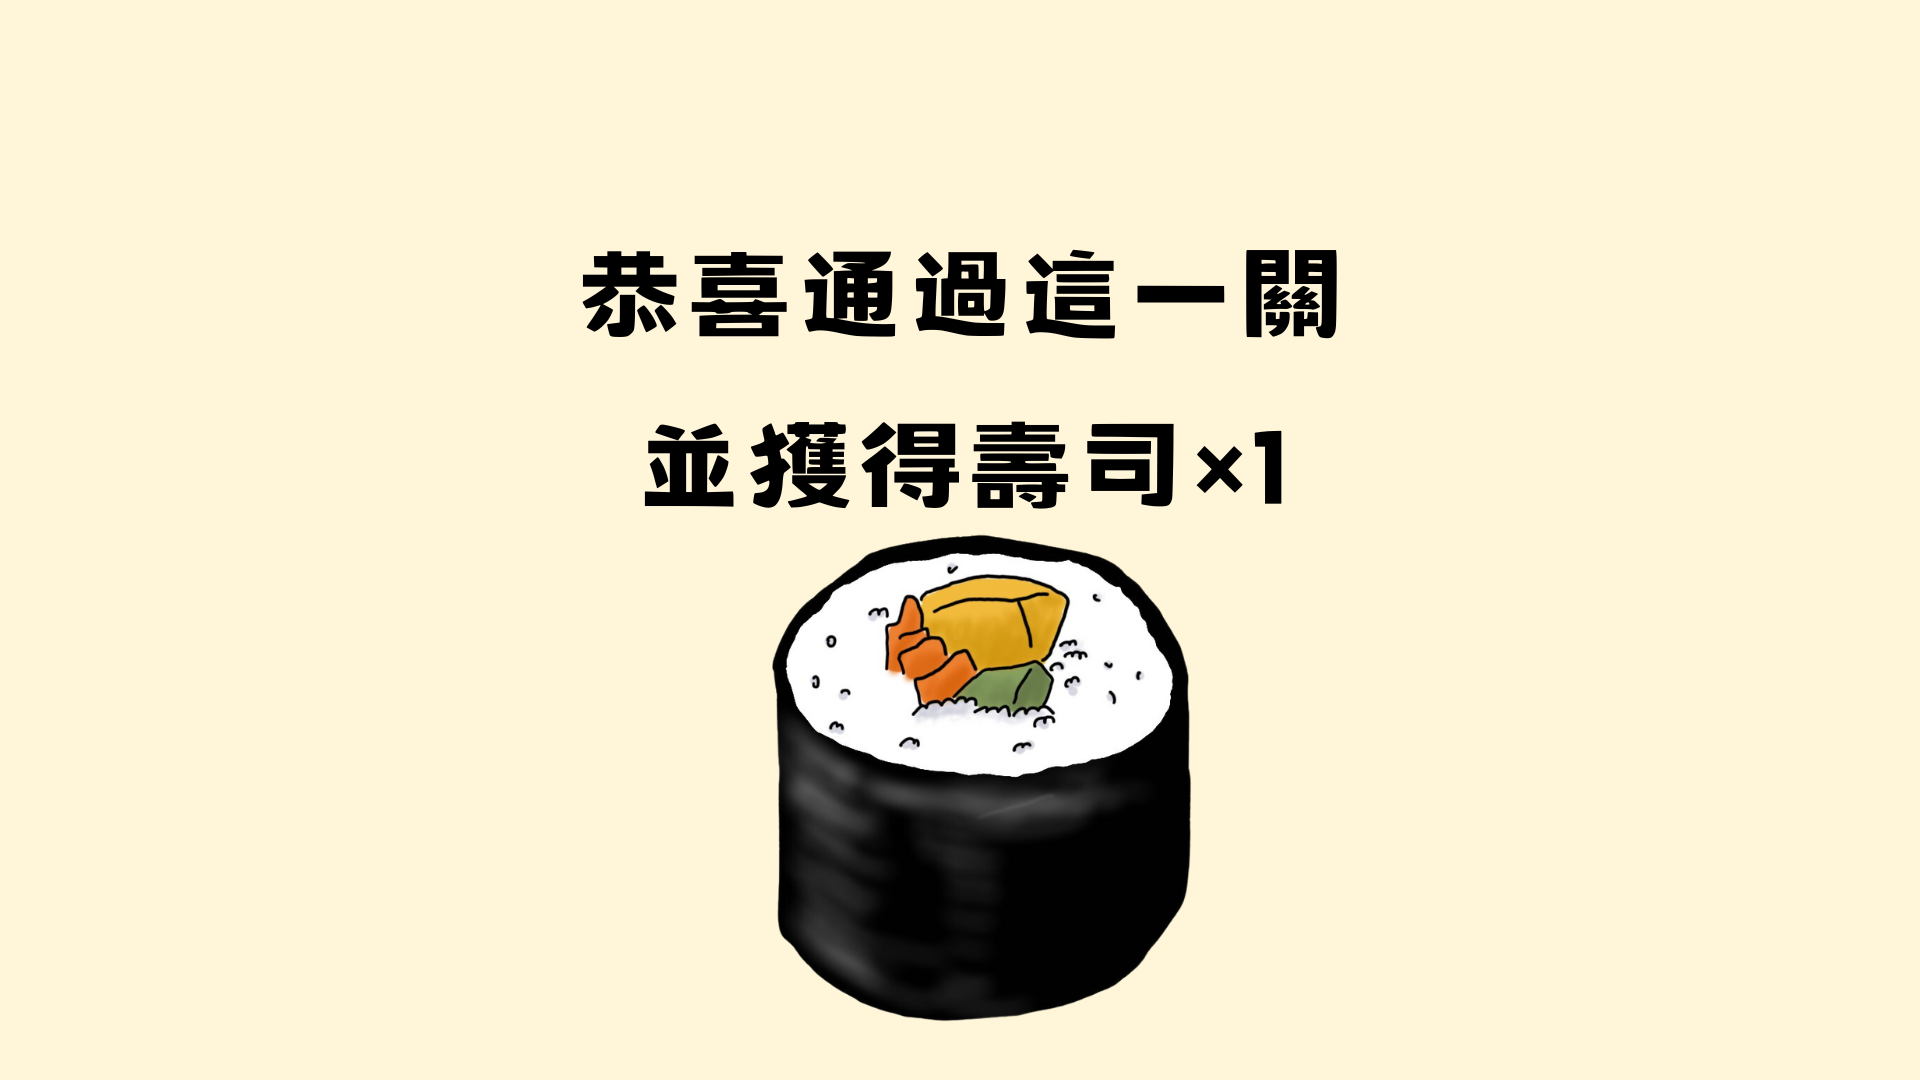
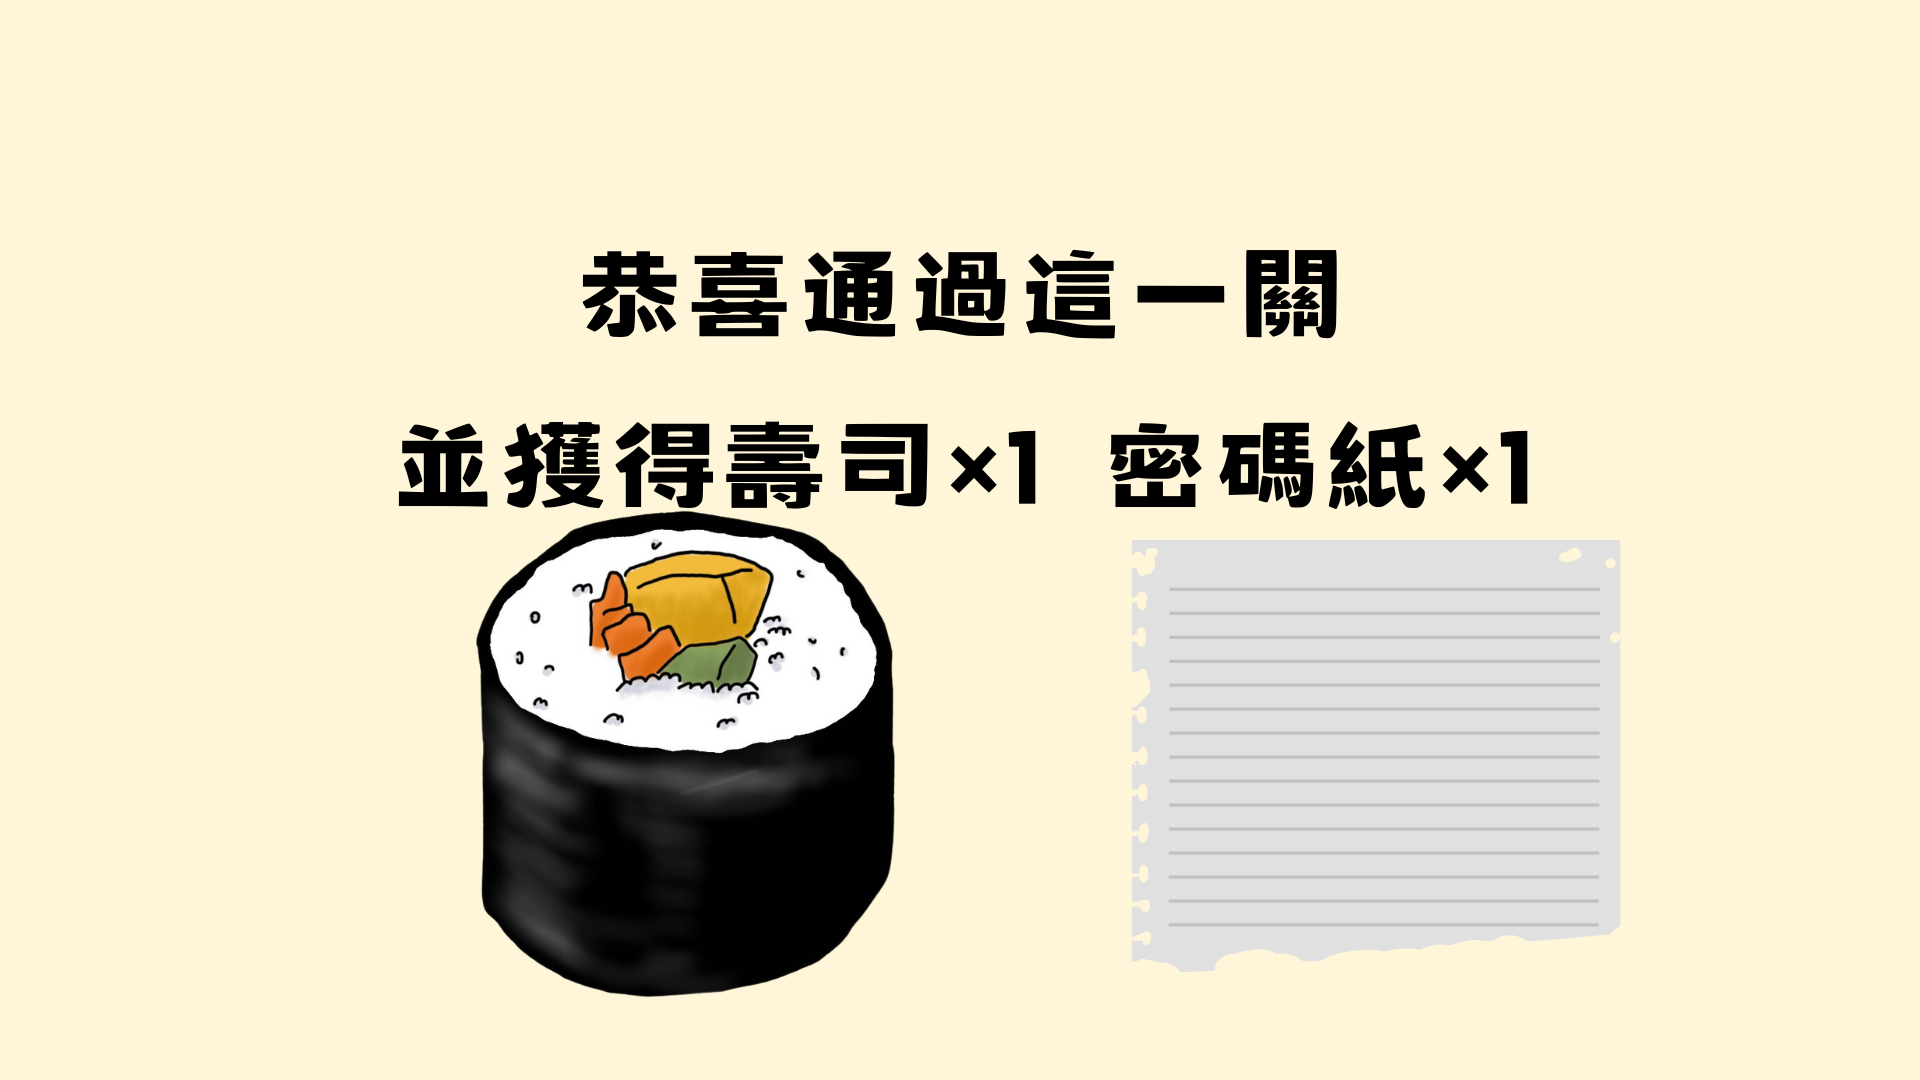
修改密碼紙位置 密碼關卡位置

Changed region(s): [[0.1875, 0.3667, 0.8438, 0.9472]]

diff --git a/assets/js/scene9.js b/assets/js/scene9.js
@@ -15,11 +15,11 @@ class Scene9 extends Phaser.Scene {
 
     // 創建顯示輸入密碼的文本
     this.inputText = this.add
-      .text(400, 100, "", { fontSize: "48px", color: "#000" })
+      .text(750, 900, "", { fontSize: "48px", color: "#000" })
       .setOrigin(0.5);
 
     this.messageText = this.add
-      .text(400, 200, "", { fontSize: "24px", color: "#000" })
+      .text(750, 1000, "", { fontSize: "24px", color: "#000" })
       .setOrigin(0.5);
 
     // 初始化用戶輸入的密碼

diff --git a/assets/js/start.js b/assets/js/start.js
@@ -21,8 +21,8 @@ class Start extends Phaser.Scene {
   }
 
   startGame() {
-    this.scene.start("Instructions");
-    //this.scene.start("Scene6");
+    //this.scene.start("Instructions");
+    this.scene.start("Scene9");
     //this.scene.start("Introduce3");
   }
 }

diff --git a/assets/js/next8.js b/assets/js/next8.js
@@ -21,7 +21,7 @@ class Next8 extends Phaser.Scene {
 
     // 在畫面上顯示生成的密碼
     this.add
-      .text(1400, 800, `${this.password}`, {
+      .text(1400, 700, `${this.password}`, {
         fontSize: "80px",
         color: "#000",
       })
